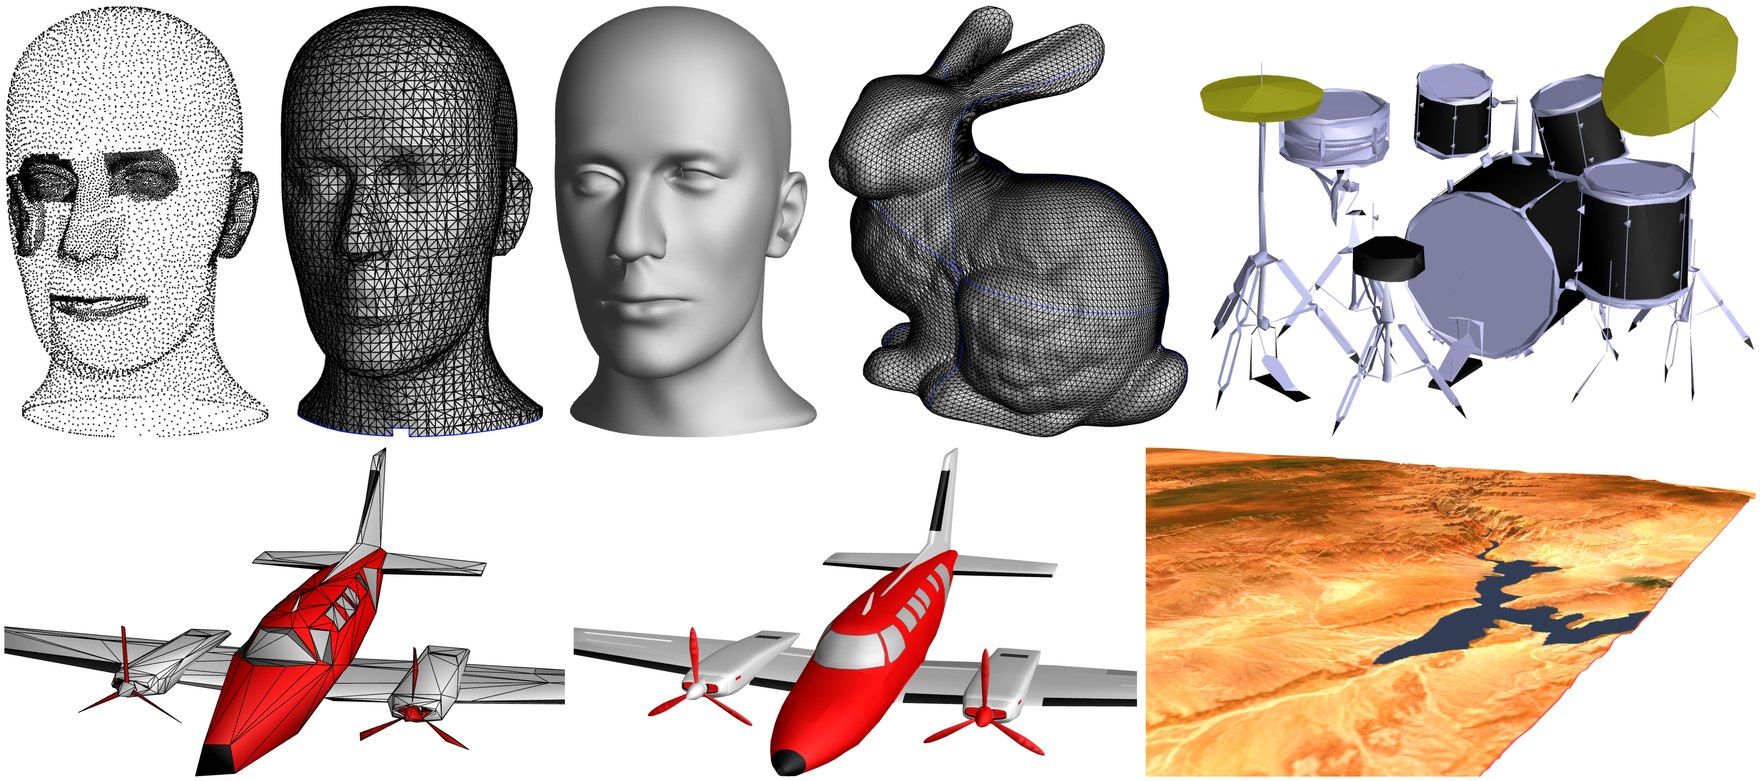
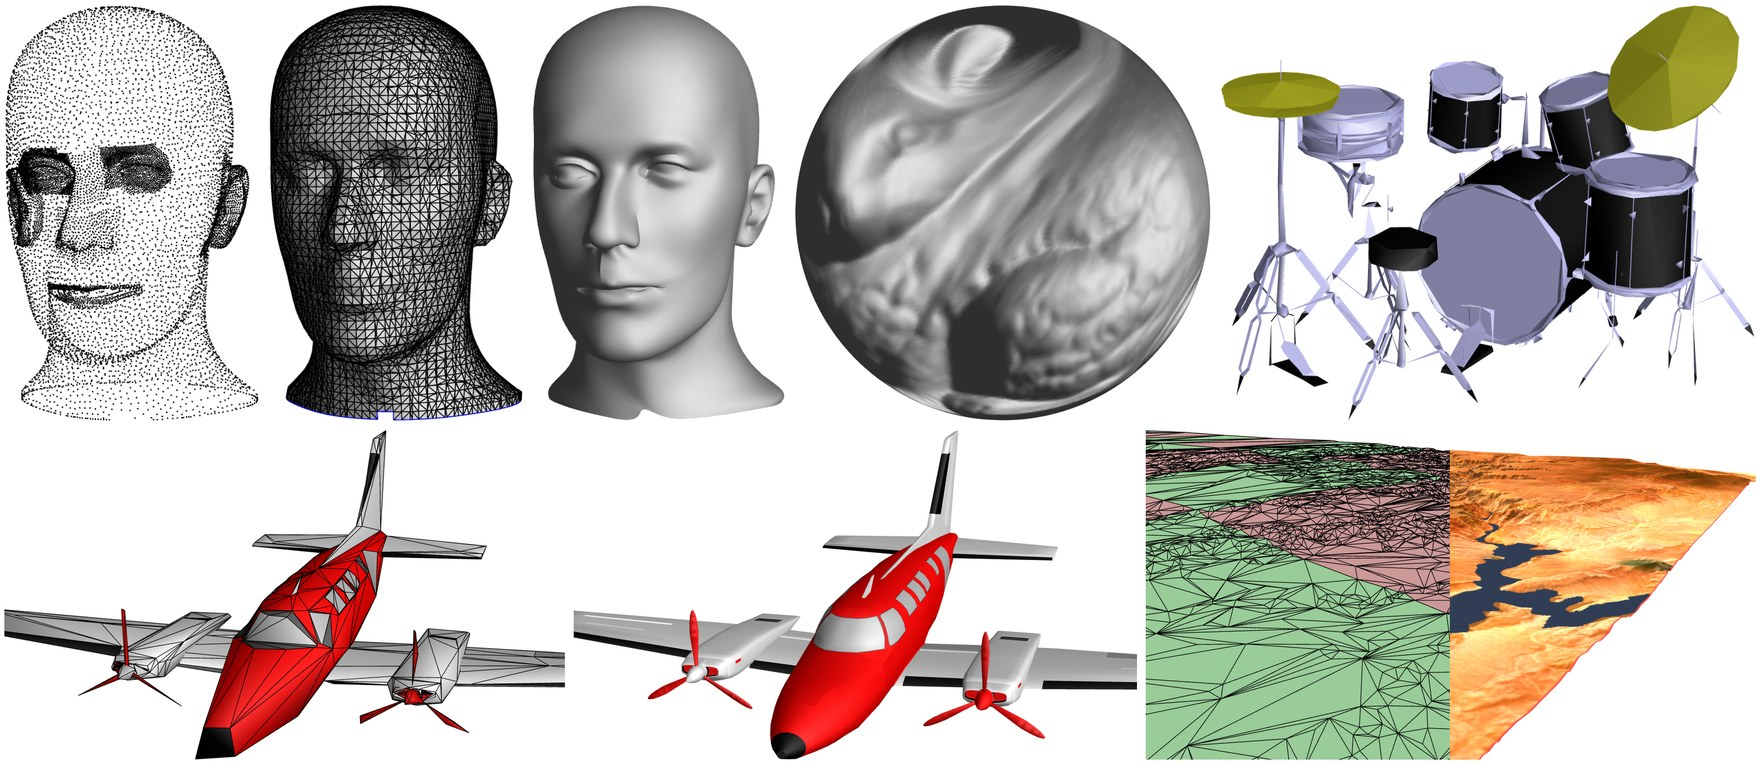
README overview: show the terrain mesh and the bunny on the sphere
- Show the terrain with its mesh on the left half, overlaying half of the mesh tile on the textured tile.
- Replace the spherical remesh of the bunny by its parameterization on the sphere.
- Update the caption, the alt text, and the Linux reference values of the overview images.

diff --git a/README.md b/README.md
@@ -25,15 +25,15 @@ The source code has been updated to modern C++ style and for cross-platform use.
 
 <picture>
   <source media="(prefers-color-scheme: dark)" srcset=".github/images/overview_dark.jpg">
-  <img src=".github/images/overview.jpg" alt="Renderings of results: reconstruction of a mannequin head from points, a remeshed bunny, a drum set approximated using simplices of mixed dimension, an airplane at two levels of detail, and a terrain.">
+  <img src=".github/images/overview.jpg" alt="Renderings of results: reconstruction of a mannequin head from points, a bunny parameterized on a sphere, a drum set approximated using simplices of mixed dimension, an airplane at two levels of detail, and a terrain shown with its mesh on the left half.">
 </picture>
 
 <em>Results rendered by the viewer `G3dOGL`.
 Top: a set of points, an initial mesh reconstruction, and an optimized subdivision surface;
-a spherical remesh;
+a spherical parameterization of a bunny;
 a progressive simplicial complex (showing ~2,500 mixed-dim. simplices).
 Bottom: a progressive mesh at coarse (800 faces) and full resolution;
-view-dependent refinement of a terrain.</em>
+view-dependent refinement of a terrain, showing its mesh on the left half.</em>
 
 The [programs page](progs/README.md) shows these and other results together with the commands that create them.
 
